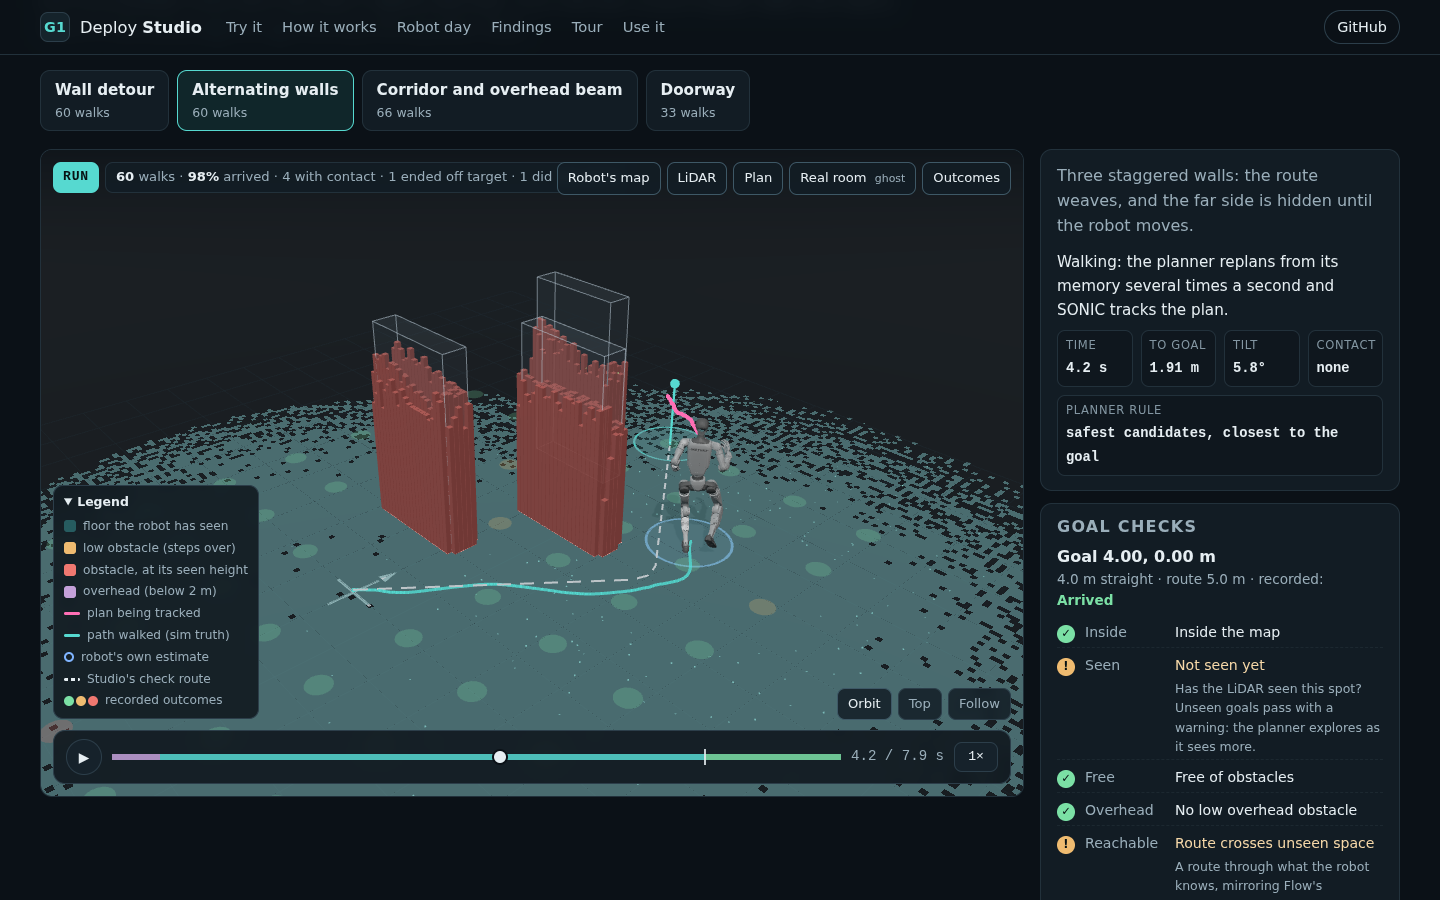
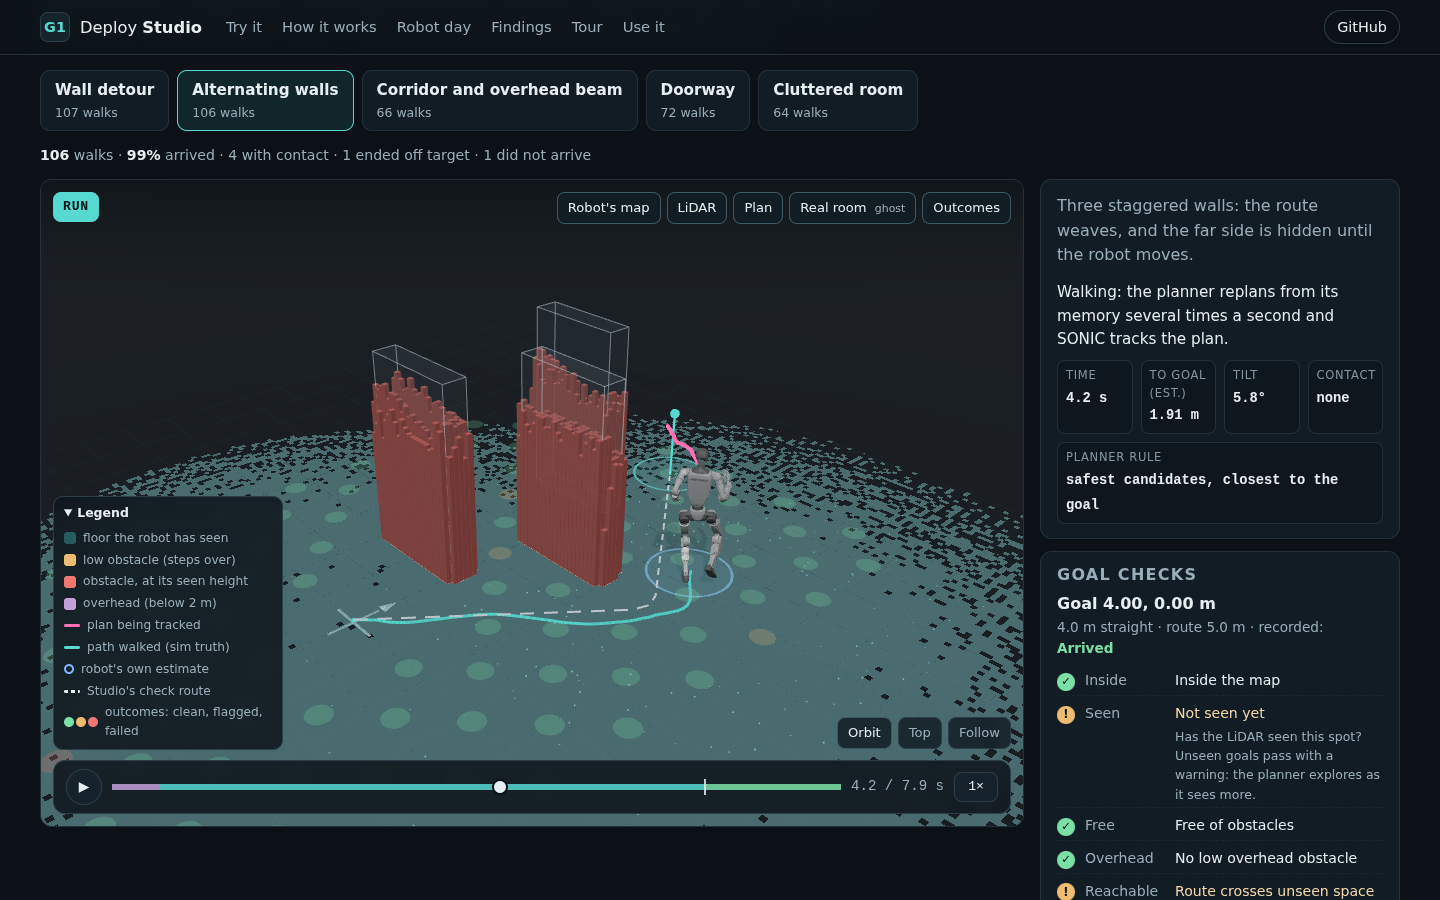
Site data v1: 415 recorded walks, a deferred stand that walks away, honest example notes
- tools/site/release.json pins the site-v1 data and media archives by SHA-256; the data
  archive now carries the Unitree mesh licence and NOTICE.
- New measured finding: in 4 of 26 walks with a deferred stand the robot moved more than
  0.5 m while it waited (up to 4.49 m in 20 s); STATUS #18. Walks that end far from the
  goal by truth and by their own estimate are graded "Arrived, then moved away".
- Example notes name how an unclean walk ends (contact, final distance, fall, forced stand).
- The live caption says when a stand is deferred instead of "settling"; Studio's deferral
  texts say the robot can still drift.
- site-check/ (the browser check's default evidence folder) is ignored.

Claude-Session: https://claude.ai/code/session_01QaVMLePy9mPjK4DwnkNoo9

Changed region(s): [[0.0312, 0.1556, 0.9688, 1.0], [0.5312, 0.0933, 0.625, 0.1556], [0.875, 0.6222, 0.9062, 0.6533]]

diff --git a/site/js/playground.js b/site/js/playground.js
@@ -377,7 +377,12 @@ export class Playground {
     const k = w.index(S.t), plan = w.plan(S.t);
     const dist = w.goal_cm[k] === null ? null : w.goal_cm[k] / 100;
     const tilt = w.tilt_mrad[k], contact = w.contact_n[k];
-    setText('pg-status', p.text ?? '');
+    // A deferred stand is not settling: the node keeps the last plan's pose until its memory clears or Studio forces it.
+    const deferred = phase === 'ARRIVED' && w.events.find(e => e.type === 'stand_deferred' && e.t <= S.t);
+    const stood = deferred && w.events.some(e => (e.type === 'stand' || e.type === 'stand_forced') && e.t > deferred.t && e.t <= S.t);
+    setText('pg-status', deferred && !stood
+      ? `Arrived, but the stand is deferred: node.py sees a ceiling below 1.35 m within 0.8 m in its memory, so it does not stand: it lets the last plan play out and holds its final frame. The robot can still drift.`
+      : p.text ?? '');
     $('pg-facts').innerHTML = [
       ['Time', `${fmt(S.t, 1)} s`, '', 'Simulated time since Go'],
       ['To goal (est.)', dist === null ? '—' : `${fmt(dist, 2)} m`, '', "By the robot's own estimate (LIO-level drift), as node.py measures it"],
@@ -428,7 +433,7 @@ export class Playground {
       ['Final, truth', `${fmt(w.final_dist_m, 2)} m`], ['Final, estimate', `${fmt(w.final_dist_estimate_m, 2)} m`],
       ['Max contact', contact === null ? '—' : `${Math.round(contact)} N`], ['Plans', w.plans_n ?? '—'],
     ].map(([a, b]) => `<div><span>${a}</span><b>${escape(String(b))}</b></div>`).join('');
-    $('pg-outcome-meta').textContent = `Grades: green arrived cleanly; amber arrived with contact over 100 N, or ended more than 0.6 m from the goal by truth (node.py's radius is 0.4 m, by its estimate); red E-stop or fall. Recorded on CPU MuJoCo at ${fmt(w.rtf, 2)}× real time; seed ${S.world.settings?.seed ?? 0}; planner ${S.world.settings?.planner?.candidates ?? '?'} candidates, ${S.world.settings?.planner?.ode_steps ?? '?'} ODE steps.`;
+    $('pg-outcome-meta').textContent = `Grades: green arrived cleanly; amber arrived with contact over 100 N, or ended more than 0.6 m from the goal by truth (node.py's radius is 0.4 m, by its estimate; it can also move away after arriving); red E-stop or fall. Recorded on CPU MuJoCo at ${fmt(w.rtf, 2)}× real time; seed ${S.world.settings?.seed ?? 0}; planner ${S.world.settings?.planner?.candidates ?? '?'} candidates, ${S.world.settings?.planner?.ode_steps ?? '?'} ODE steps.`;
     chip.innerHTML = `<b>${escape(g.label)}</b> · ends ${fmt(w.final_dist_m, 2)} m from the goal (truth)${contact > 100 ? ` · contact ${Math.round(contact)} N` : ''}`;
   }
 }

diff --git a/site/js/util.js b/site/js/util.js
@@ -19,7 +19,8 @@ export function grade(walk) {
   const contact = (walk.max_contact_n ?? 0) > 100;
   if (walk.outcome === 'arrived') {
     if (contact) return { key: 'contact', label: 'Arrived, with contact', color: 0xefbb70 };
-    if ((walk.final_dist_m ?? 0) > 0.6) return { key: 'off', label: 'Arrived by its estimate, off by truth', color: 0xefbb70 };
+    // Off by truth: its estimate was wrong, or (its estimate agreeing) it moved away after arriving, as in a deferred stand.
+    if ((walk.final_dist_m ?? 0) > 0.6) return { key: 'off', label: (walk.final_dist_estimate_m ?? 0) > 0.6 ? 'Arrived, then moved away' : 'Arrived by its estimate, off by truth', color: 0xefbb70 };
     return { key: 'clean', label: 'Arrived', color: 0x7be0a5 };
   }
   const o = OUTCOME[walk.outcome] ?? { label: walk.outcome, color: 0x8aa0ad };
@@ -31,7 +32,7 @@ export const PHASE = {
   WAIT: { label: 'WAIT', color: '#8aa0ad', why: 'Standing; the node waits for a goal and the operator.' },
   PRESCAN: { label: 'PRESCAN', color: '#c4a0d9', text: 'Pre-scan: before every walk node.py stands for 0.5 s while its LiDAR fills the map.', why: 'node.py pre-scans before every walk.' },
   RUN: { label: 'RUN', color: '#56d9d0', text: 'Walking: the planner replans from its memory several times a second and SONIC tracks the plan.', why: 'Flow student plans; SONIC tracks.' },
-  ARRIVED: { label: 'ARRIVED', color: '#7be0a5', text: "Arrived: settling to a stand. The recording ends once it stands still.", why: "node.py's arrival rule: its own pose estimate within the 0.4 m goal radius." },
+  ARRIVED: { label: 'ARRIVED', color: '#7be0a5', text: "Arrived: settling to a stand. The recording ends when it stands still, or if it falls.", why: "node.py's arrival rule: its own pose estimate within the 0.4 m goal radius." },
   STOPPED: { label: 'STOPPED', color: '#efbb70', text: 'Stopped: standing up where it is.', why: "A walk timeout (Studio's 60 s limit in simulation), the operator, or a supervisor stop." },
 };
 

diff --git a/apps/web/js/navigate.js b/apps/web/js/navigate.js
@@ -374,7 +374,7 @@ export function renderLive() {
       <div class="nav-facts">${facts(job)}</div>
       ${n?.pending_stand ? (real
         ? `<div class="callout danger">The node is deferring its stand (${escape(n.pending_stand)}): its map shows something overhead below head height near the robot, so the robot keeps playing its last plan. Use the remote's D-up only if nothing is overhead; Select is the E-stop.</div>`
-        : `<div class="callout warning">Stand deferred: the robot's map shows something overhead below head height within 0.8 m, so node.py lets the current plan play out first${n.holding_plan_end ? '. The plan has ended and the robot holds its last pose' : ''}. Take over to stand it now (the remote's D-up); Studio forces it after 20 s. <button id="nav-takeover" class="link-button">Take over</button></div>`) : ''}
+        : `<div class="callout warning">Stand deferred: the robot's map shows something overhead below head height within 0.8 m, so node.py lets the current plan play out first${n.holding_plan_end ? '. The plan has ended and the robot holds its last pose; it can still drift' : ''}. Take over to stand it now (the remote's D-up); Studio forces it after 20 s. <button id="nav-takeover" class="link-button">Take over</button></div>`) : ''}
       ${n?.fallen ? '<div class="callout warning">E-stop: the robot tilted past the supervisor limit. On the robot the runner switches to damping. End the session to keep the recording.</div>' : ''}
       ${(n?.streams ?? []).filter(s => (s.status === 'stale' || s.status === 'unavailable')
           // The node streams plans only while walking: a quiet pose stream while standing is expected.

diff --git a/site/js/findings.js b/site/js/findings.js
@@ -17,6 +17,12 @@ function cards(featured, catalog) {
       text: "Single high returns from the robot's arms become overhead cells in a memory that never forgets. Over a long session the validator saw stalls, deferred stands and falls follow.",
       status: `In the deploy repository (STATUS #15). Studio's simulated robot offers a fresh-map mode to compare.${deferred.phantom ? ` In these short walks: ${deferred.phantom} deferred their stand with nothing that low nearby.` : ''}` },
   ];
+  const dr = f.deferral_drift;
+  if (dr && dr.over_0_5m) {
+    out.push({ id: 'drift', kind: 'robot', tag: 'Robot side · measured here', title: 'A deferred stand can walk away',
+      text: `While node.py defers a stand it does not stand: it lets the last plan play out and then holds that plan's final frame. In ${dr.over_0_5m} of ${dr.walks} recorded walks with a deferred stand the robot still moved more than 0.5 m while it waited, up to ${dr.max_m.toFixed(1)} m in ${dr.max_held_s.toFixed(0)} s. The node's outcome stays "arrived".`,
+      status: "On the robot node.py keeps deferring; Studio forces the stand after 20 s only in simulation. The operator stands the robot with the remote's D-up, only if nothing is directly above it. Simulation, one seed per goal." });
+  }
   const SHORT = { detour: 'wall-detour room', slalom: 'alternating-walls room', corridor: 'corridor', doorway: 'doorway room', clutter: 'cluttered room' };
   const c = f.contact ?? {}, worst = Object.entries(c).sort((a, b) => b[1].over_100n / b[1].walks - a[1].over_100n / a[1].walks)[0];
   if (worst && worst[1].over_100n) {

diff --git a/site/js/robotday.js b/site/js/robotday.js
@@ -86,7 +86,7 @@ export async function initRobotDay(root) {
       const d = Math.hypot(g[0] - world.start_xy[0], g[1] - world.start_xy[1]);
       add(label, d <= MAX_GOAL_M ? 'pass' : 'block', d <= MAX_GOAL_M ? `${fmt(d)} m from the robot; inside the assumed memory (±6 m around (0.00, 0.00))` : `${fmt(d)} m from the robot: beyond the ${MAX_GOAL_M.toFixed(1)} m limit`);
     }
-    if (f.has('ceiling')) add('Stand not deferred', 'block', `inferred from node status: the node is deferring its stand (a low ceiling near the robot): the robot holds the plan's last pose until it is clear. Take over with the remote's D-up only if nothing is directly above the robot${D.walk ? '' : ' (as after a walk that ended near a low ceiling)'}`);
+    if (f.has('ceiling')) add('Stand not deferred', 'block', `inferred from node status: the node is deferring its stand (a low ceiling near the robot): the robot holds the plan's last pose until it is clear, and can still drift. Take over with the remote's D-up only if nothing is directly above the robot${D.walk ? '' : ' (as after a walk that ended near a low ceiling)'}`);
     else if (walking()) add('Stand not deferred', 'warn', `the robot is walking (node phase ${phaseAt()})`);
     else add('Stand not deferred', 'pass', D.walk ? `node phase ${phaseAt()}, standing = true` : 'node phase WAIT (no stand pending)');
     return items;

diff --git a/tools/site/export.py b/tools/site/export.py
@@ -251,7 +251,23 @@ def deferral_cause(index, walk):
     else:
         cause = 'unclassified'
     stood = next((e['t'] for e in walk['events'] if e['type'] in ('stand', 'stand_forced') and e['t'] > ev['t']), walk['time'][-1])
-    return {'t': ev['t'], 'cells': len(cells), 'cause': cause, 'held_s': round(float(stood - ev['t']), 2)}
+    k1 = max(0, int(np.searchsorted(walk['time'], stood, side='right')) - 1)
+    moved = math.dist(walk['q'][k * 36:k * 36 + 2], walk['q'][k1 * 36:k1 * 36 + 2]) / 1000  # simulator truth, while deferred
+    return {'t': ev['t'], 'cells': len(cells), 'cause': cause, 'held_s': round(float(stood - ev['t']), 2), 'moved_m': round(moved, 2)}
+
+
+def _ending(d):
+    """How an example walk ends when it is not clean, so the note under it never hides contact, drift or a fall."""
+    parts = []
+    if (d['max_contact_n'] or 0) > 100:
+        parts.append(f"peaks at {d['max_contact_n']:.0f} N of contact")
+    if d['final_dist_m'] is not None and d['final_dist_m'] > 0.6:
+        parts.append(f"ends {d['final_dist_m']:.2f} m from the goal (simulator truth)")
+    if d['outcome'] != 'arrived':
+        parts.append(f"is reported as {d['outcome']}" + (f" ({d['reason']})" if d['reason'] else ''))
+    if not parts:
+        return ''
+    return ' The walk ' + (', '.join(parts[:-1]) + ' and ' + parts[-1] if len(parts) > 1 else parts[0]) + '.'
 
 
 def featured(out, worlds):
@@ -272,14 +288,27 @@ def featured(out, worlds):
         if c:
             causes[c['cause']].append((w, d, c))
     facts['deferred'] = {k: len(v) for k, v in causes.items()}
+    every = [x for v in causes.values() for x in v]
+    if every:
+        w, d, c = max(every, key=lambda x: x[2]['moved_m'])
+        facts['deferral_drift'] = {'walks': len(every), 'over_0_5m': sum(x[2]['moved_m'] > 0.5 for x in every),
+                                   'max_m': c['moved_m'], 'max_held_s': c['held_s']}
+        if c['moved_m'] > 0.5:
+            pick['drift'] = {'world': w, 'goal': d['goal_id'], 'label': 'Watch it walk away',
+                             'note': f"In this one the robot arrives at {c['t']:.1f} s and moves {c['moved_m']:.2f} m in the "
+                                     f"{c['held_s']:.1f} s its stand is deferred" + (', until Studio forces it.' if any(e['type'] == 'stand_forced' for e in d['events']) else '.')
+                                     + _ending(d)}
     for key, cause, label in (('edge-ceiling', 'table-edge', 'Watch a deferral at a table edge'),
                               ('phantom', 'phantom', 'Watch a deferral with nothing overhead')):
         if causes[cause]:
-            w, d, c = max(causes[cause], key=lambda x: x[2]['held_s'])
+            # The longest wait; among equal waits the one that stays put, so the drift example stays its own card.
+            w, d, c = max(causes[cause], key=lambda x: (x[2]['held_s'], -x[2]['moved_m']))
             if c['held_s'] >= 0.5:
                 pick[key] = {'world': w, 'goal': d['goal_id'], 'label': label,
                              'note': f"{len(causes[cause])} of {len(walks)} recorded walks deferred a stand this way (classified from "
-                                     f"the recorded map and the room's boxes). In this one the stand waits {c['held_s']:.1f} s, from {c['t']:.1f} s."}
+                                     f"the recorded map and the room's boxes). In this one the stand waits {c['held_s']:.1f} s, from {c['t']:.1f} s"
+                                     + (', until Studio forces it (a 20 s limit in simulation).' if any(e['type'] == 'stand_forced' for e in d['events']) else '.')
+                                     + _ending(d)}
     # The door: walks to the far side that cross the wall line through the 0.8 m door.
     if 'doorway' in indexes:
         far, through, clean, elsewhere = 0, 0, 0, 0

diff --git a/tests/test_site.py b/tests/test_site.py
@@ -122,6 +122,14 @@ class WalkExportTests(unittest.TestCase):
         self.assertEqual(heights[2 * 5 + 3], 55)
         self.assertEqual(d['outcome'], 'arrived')
 
+    def test_example_notes_name_how_an_unclean_walk_ends(self):
+        clean = {'max_contact_n': 20.0, 'final_dist_m': 0.3, 'outcome': 'arrived', 'reason': None}
+        self.assertEqual(export._ending(clean), '')
+        fell = {'max_contact_n': 338.2, 'final_dist_m': 1.84, 'outcome': 'fell', 'reason': 'pelvis 0.29 m'}
+        self.assertEqual(export._ending(fell), ' The walk peaks at 338 N of contact, ends 1.84 m from the goal (simulator truth)'
+                                               ' and is reported as fell (pelvis 0.29 m).')
+        self.assertEqual(export._ending(dict(clean, max_contact_n=None, final_dist_m=None, outcome='estop')), ' The walk is reported as estop.')
+
     def test_a_walk_that_starts_on_another_map_is_refused(self):
         other = (self.base[0] + 1, self.base[1])
         with self.assertRaisesRegex(ValueError, 'differs from the probe map'):

diff --git a/studio/goal_check.py b/studio/goal_check.py
@@ -602,7 +602,7 @@ def check_goal(grid, robot_xy, goal_xy, *, robot_radius_m=0.30, arrival_radius_m
         checks.append(_check('overhead', 'block', 'Low overhead obstacle',
                              f'An overhead obstacle {_metres(inner[0])} above the floor is {_metres(inner[1])} from the '
                              f'goal (head height {_metres(head_height_m)}): standing up there drives the head into it, '
-                             'so the node defers the stand and the robot holds its last pose.' + edge_note(inner[0])))
+                             'so the node defers the stand and the robot holds its last pose (it can still drift).' + edge_note(inner[0])))
     elif outer is not None:
         checks.append(_check('overhead', 'warn', 'Overhead obstacle near the arrival',
                              f'An overhead obstacle {_metres(outer[0])} above the floor is {_metres(outer[1])} from the '

diff --git a/studio/robot_link.py b/studio/robot_link.py
@@ -1527,7 +1527,7 @@ class RobotLink:
         phase = status.get("phase") if (status and fresh) else None
         if pending_stand:
             add("stand", "Stand not deferred", "block", f"{pending_stand}: the robot holds the plan's last pose until "
-                "it is clear. Take over with the remote's D-up only if nothing is directly above the robot")
+                "it is clear, and can still drift. Take over with the remote's D-up only if nothing is directly above the robot")
         elif phase is None:
             add("stand", "Stand not deferred", "block", "unknown: node status unavailable")
         elif phase in ("ARRIVED", "STOPPED"):

diff --git a/docs/STATUS.md b/docs/STATUS.md
@@ -24,7 +24,7 @@ Studio is a loopback-only cockpit for deploying, visualizing and rehearsing navi
 | Navigate with the real robot: robot link on the deploy PC (loopback streams; goal and stand to node.py, never Go) | M5 | Verified against a protocol fixture only (browser 7/7); not run against node.py or a robot | [NAVIGATE](NAVIGATE.md) |
 | Scan to twin (an arena fitted to the robot's map) and the printable course build sheet | — | Verified in simulation and print | [NAVIGATE](NAVIGATE.md), [WORKBENCH](WORKBENCH.md) |
 | Site maps across sessions (mapping walk, relocalization) | — | Designed, not built | [REAL_WORLD_DEPLOYMENT](REAL_WORLD_DEPLOYMENT.md) §5.3 |
-| **Public site**: Navigate on recorded walks of the real stack (five rooms, deploy settings, every grid goal that passes the checks), the robot-day checklist, the system diagram, the tour | L1 / L2, recorded | Verified (browser checks, desktop and phone) | [SITE](SITE.md) |
+| **Public site**: Navigate on recorded walks of the real stack (five rooms, deploy settings, a coverage lattice of goals that pass the checks; `site-v1`: 415 walks), the robot-day checklist, the system diagram, the tour | L1 / L2, recorded | Verified (browser checks, desktop and phone) | [SITE](SITE.md) |
 
 ## Current results
 
@@ -58,6 +58,7 @@ These are CPU MuJoCo lockstep runs from standing starts, at small n. They are no
 | 14 | Robot link thresholds not measured on hardware: a standing G1 must read below 0.05 m/s and 0.05 rad/s on LIO for 0.5 s, and the node's position must match LIO within 0.1 m, before a goal is sent | Operator | Measure on the first M5 session; `limits.still_*` in `config/robot_link.json` |
 | 13 | Proposals U1–U3 for g1-student-deploy: absolute odom goals, a telemetry stream with the planner's live map, loopback-only binds. Today node.py binds `tcp://*:5562` (accepts go and quit) and `*:5556`, the SONIC runner `*:5557` and the LIO bridge `*:5561`; U3 covers only node.py's two | Deploy repo owner | Proposed in [REAL_WORLD_DEPLOYMENT](REAL_WORLD_DEPLOYMENT.md) §7; Studio works without them. Until then, firewall the robot network |
 | 17 | g1-student-deploy's HARDWARE.md (step 4) and OPERATOR_GUIDE.md (step 3) say the remote's F1 starts a walk. In the code F1 only hands the runner to the node's ZMQ stream; the console starts node.py with `--wait-go`, so the node walks after the console's `g`. Studio's docs, UI and the site were corrected on 2026-10-21; the narrated tour still says "the console or the remote" (corrected on the site) | Deploy repo owner | Fix the two operator docs |
+| 18 | A deferred stand can walk away. In the site's recordings (`site-v1`: simulation, deploy settings, one seed per goal) 26 of 415 walks deferred their stand; in 4 the robot moved more than 0.5 m while it waited, the most 4.49 m in 20 s (wall-detour room, goal g01-05, a phantom ceiling, #15), and the node's outcome stayed "arrived". Past a plan's end the feed holds the plan's final frame (Flow `closed_loop/feed.py` `target`). node.py defers without a bound on the robot; Studio forces the stand after 20 s only in simulation | Deploy repo owner + operator | Bound the deferral or stand once the plan has ended (#11). On the robot, watch for drift after arrival; D-up stands it only if nothing is directly above |
 
 ## Decisions
 

diff --git a/docs/SITE.md b/docs/SITE.md
@@ -16,7 +16,7 @@ Owner decision, 2026-10-21 (STATUS decisions):
 
 | Section | What it is | Source of truth |
 |---|---|---|
-| Send the robot somewhere | Five rooms. Click the floor: the six goal checks Studio runs on the map the robot has at the start mark (`studio/goal_check.py`, precomputed for every grid cell); a passing spot snaps to the nearest recorded goal. **Send goal**, then **Go** (or `g`): the recorded walk plays with the robot (simulator truth), its own estimate, its LiDAR returns, the planner's map growing cell by cell, the plan it is tracking and its path. Each walk is graded from its data: *arrived*, *arrived with contact* (over 100 N), *arrived by its estimate, off by truth* (more than 0.6 m), or the node's outcome | `tools/site/record_goals.py` → `studio/nav_worker.py` |
+| Send the robot somewhere | Five rooms. Click the floor: the six goal checks Studio runs on the map the robot has at the start mark (`studio/goal_check.py`, precomputed for every grid cell); a passing spot snaps to the nearest recorded goal. **Send goal**, then **Go** (or `g`): the recorded walk plays with the robot (simulator truth), its own estimate, its LiDAR returns, the planner's map growing cell by cell, the plan it is tracking and its path. Each walk is graded from its data: *arrived*, *arrived with contact* (over 100 N), *arrived by its estimate, off by truth* (more than 0.6 m by truth), *arrived, then moved away* (more than 0.6 m by truth and by its estimate at the end, as after a deferred stand that drifts), or the node's outcome | `tools/site/record_goals.py` → `studio/nav_worker.py` |
 | How the pieces fit | The robot-day topology, clickable: who reads and writes which stream, and what Studio may send | `docs/REAL_WORLD_DEPLOYMENT.md` §3 |
 | A day with the real robot | Build, start, connect, pick and send, the operator's `g`, review. The checklist uses the robot link's rules and wording; five switches inject the faults it guards against | `studio/robot_link.py` `_ready` |
 | What rehearsing found | The perception findings (STATUS #11, #15), policy behaviour measured in these recordings (contact by room, door passages, pelvis height under the beam), and the review fixes. The measured cards are written from the data, and their example walks are chosen by cause (`tools/site/export.py` `featured`) | `docs/STATUS.md`, `docs/REVIEW-20261021-NAVIGATE.md` |
@@ -52,3 +52,9 @@ The worker records the planner's memory as display codes at every 1 s snapshot w
 ## Updating
 
 Record or re-export, `tools/site/package.sh <site-data> <media> <dir> site-vN`, create the release with the two archives, update `tools/site/release.json`, push to `main`. A change to `site/` alone redeploys with the same data.
+
+| Release | Date | Walks | Coverage | Archives |
+|---|---|---|---|---|
+| `site-v1` | 2026-10-21 | 415: wall detour 107, alternating walls 106, corridor 66, doorway 72, cluttered room 64 | Levels 0 and 1 in the first two rooms, level 0 in the others | data 17 MB (61 MB unpacked, with the mesh licence and NOTICE), media 25 MB |
+
+The batch can keep recording the remaining levels at the lowest priority for a later release; nothing on the published site changes until `tools/site/release.json` names a new tag.
